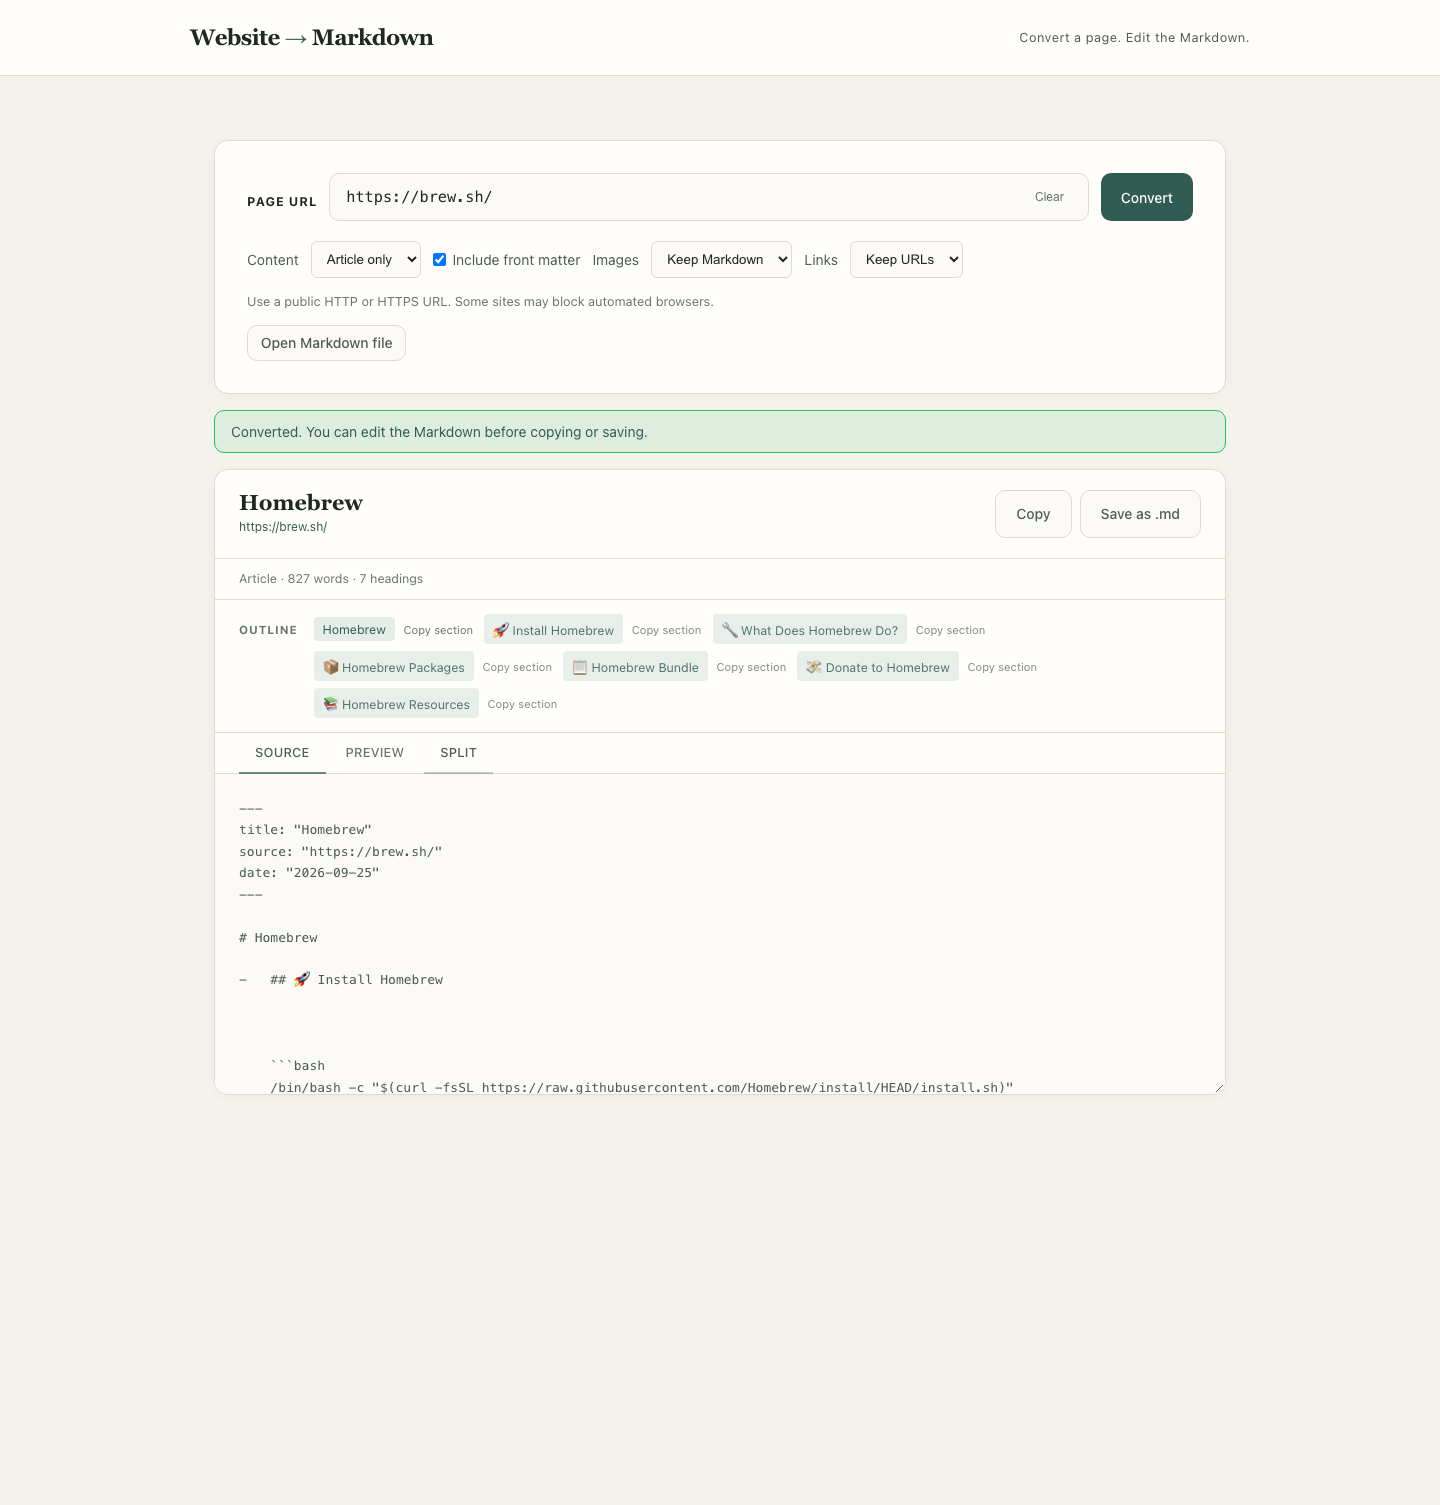
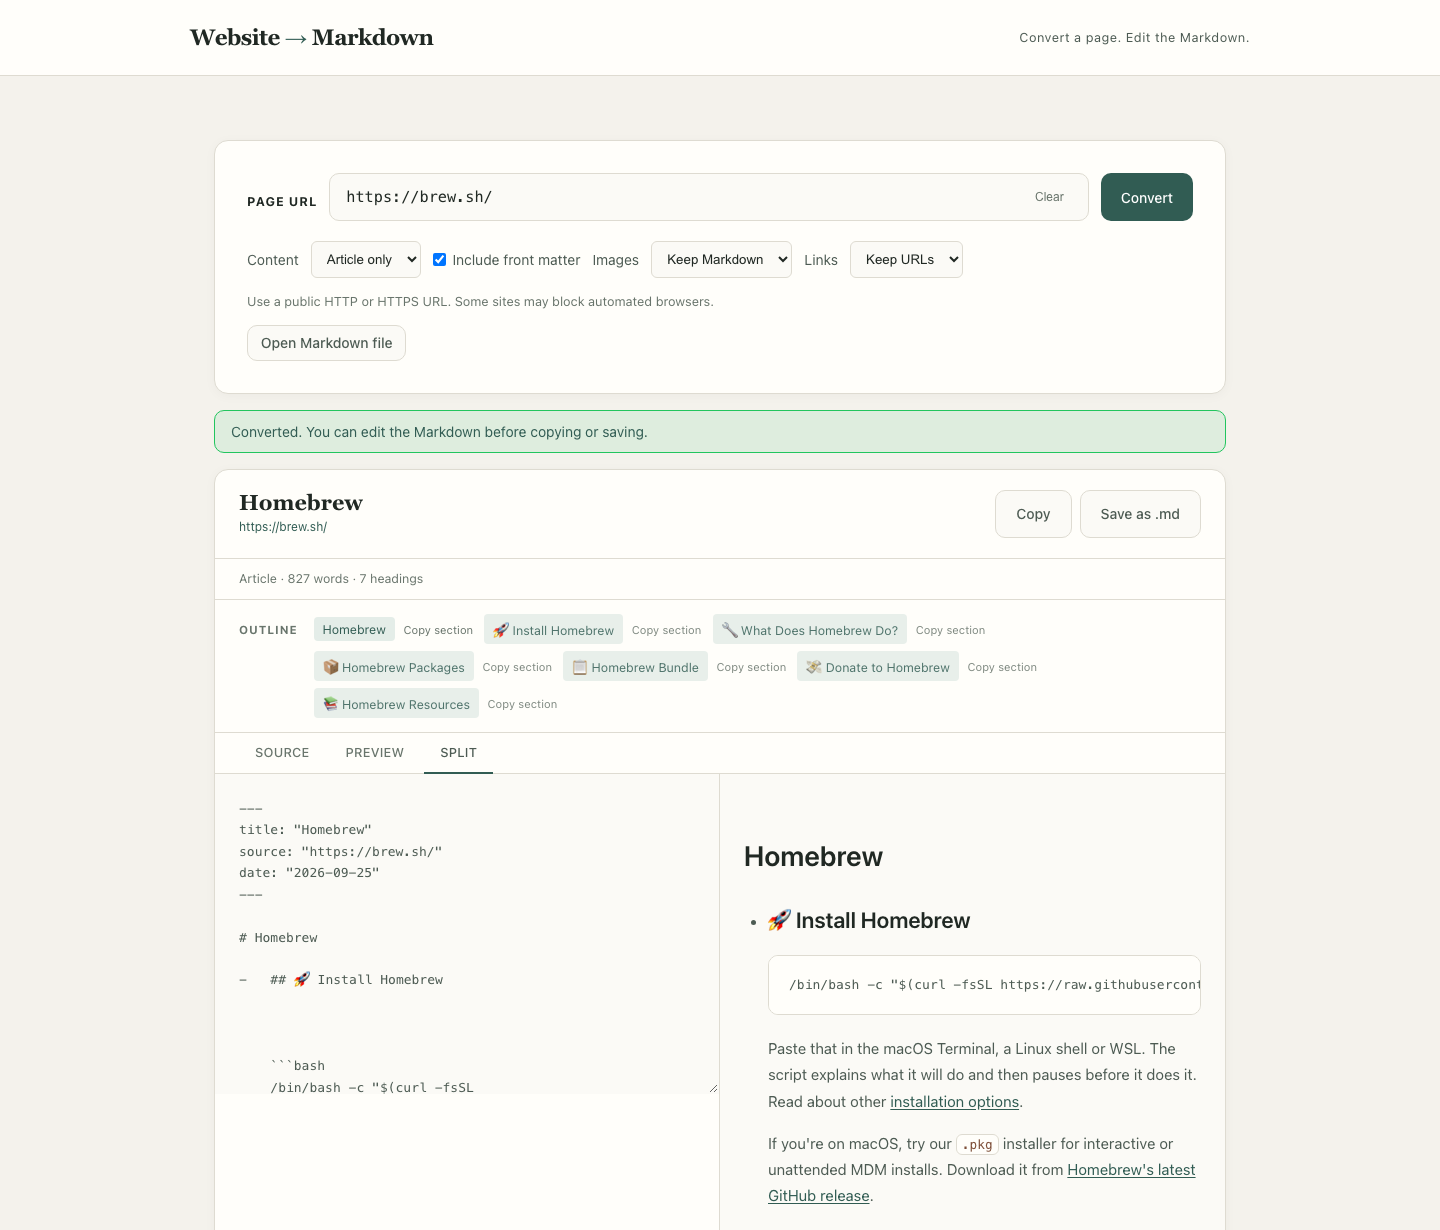
Fix outline actions and Split screenshot for v1.0.1

diff --git a/public/app.js b/public/app.js
@@ -11,6 +11,9 @@ let currentTitle = "output";
 let baseline = "";
 let origin = "";
 let headings = [];
+let headingsSource = "";
+let actionSource = "";
+let actionHeadings = [];
 let activeView = "source";
 let renderTimer;
 let previewSource = null;
@@ -85,6 +88,7 @@ function renderResult() {
   if (activeView !== "source") renderPreviewIfNeeded();
   const stats = analyzeMarkdown(editor.value);
   headings = stats.headings;
+  headingsSource = editor.value;
   $("result-details").textContent =
     `${origin} · ${stats.wordCount} words · ${stats.headingCount} headings`;
   const items = $("outline-items");
@@ -99,20 +103,25 @@ function renderResult() {
     jump.textContent = heading.text;
     jump.setAttribute("aria-label", `Go to ${jump.textContent}`);
     jump.addEventListener("click", () => {
+      const { items, position } = currentHeading(heading, index);
+      const target = items[position];
+      if (!target) return;
       if (activeView === "source") {
         editor.focus();
-        const end = editor.value.indexOf("\n", heading.start);
+        const end = editor.value.indexOf("\n", target.start);
         editor.setSelectionRange(
-          heading.start,
+          target.start,
           end < 0 ? editor.value.length : end,
         );
-      } else
+      } else {
+        renderPreviewIfNeeded();
         $("markdown-preview")
           .querySelectorAll("h1, h2, h3, h4, h5, h6")
-          [index]?.scrollIntoView({
+          [position]?.scrollIntoView({
             behavior: "smooth",
             block: "start",
           });
+      }
     });
     const copy = document.createElement("button");
     copy.type = "button";
@@ -121,8 +130,10 @@ function renderResult() {
     copy.setAttribute("aria-label", `Copy section: ${jump.textContent}`);
     copy.addEventListener("click", async () => {
       try {
+        const { items, position } = currentHeading(heading, index);
+        if (!items[position]) return;
         await navigator.clipboard.writeText(
-          sectionMarkdown(editor.value, headings, index),
+          sectionMarkdown(editor.value, items, position),
         );
         status("success", `Copied section: ${jump.textContent}.`);
       } catch {
@@ -135,6 +146,25 @@ function renderResult() {
     group.append(jump, copy);
     items.append(group);
   });
+}
+function currentHeading(heading, index) {
+  if (headingsSource === editor.value)
+    return { items: headings, position: index };
+  if (actionSource !== editor.value) {
+    actionSource = editor.value;
+    actionHeadings = analyzeMarkdown(editor.value).headings;
+  }
+  const same = (item) =>
+    item.text === heading.text && item.level === heading.level;
+  const occurrence = headings.slice(0, index + 1).filter(same).length;
+  let seen = 0;
+  const match = actionHeadings.findIndex(
+    (item) => same(item) && ++seen === occurrence,
+  );
+  return {
+    items: actionHeadings,
+    position: match < 0 ? index : match,
+  };
 }
 function load(markdown, title, sourceUrl, label) {
   clearTimeout(renderTimer);

diff --git a/test/ui.test.js b/test/ui.test.js
@@ -3,6 +3,66 @@ import assert from "node:assert/strict";
 import { chromium } from "playwright";
 import { createApp } from "../src/server.js";
 
+test("outline actions use current positions before the debounce", async () => {
+  const server = createApp(async () => ({
+    title: "Outline",
+    url: "https://example.com/",
+    extractionMode: "article",
+    warnings: [],
+    markdown: "# First\none\n\n## Target\ntwo\n\n## Next\nthree",
+  })).listen(0, "127.0.0.1");
+  await new Promise((resolve) => server.once("listening", resolve));
+  let browser;
+  try {
+    browser = await chromium.launch();
+    const page = await browser.newPage();
+    await page.addInitScript(() => {
+      Object.defineProperty(navigator, "clipboard", {
+        value: {
+          writeText: async (value) => {
+            window.__copied = value;
+          },
+        },
+      });
+    });
+    await page.goto(`http://127.0.0.1:${server.address().port}/`);
+    await page.locator("#url-input").fill("https://example.com/");
+    await page.locator("#convert-btn").click();
+    await page.locator("#output-card").waitFor({ state: "visible" });
+    await page.evaluate(() => {
+      const editor = document.querySelector("#markdown-output");
+      editor.value = "Before the heading\n\n" + editor.value;
+      editor.dispatchEvent(new Event("input", { bubbles: true }));
+      document.querySelectorAll(".outline-copy")[1].click();
+    });
+    await page.waitForFunction(() => window.__copied !== undefined);
+    assert.equal(await page.evaluate(() => window.__copied), "## Target\ntwo");
+    const selected = await page.evaluate(() => {
+      const editor = document.querySelector("#markdown-output");
+      editor.value = "## Inserted\nnew\n\n" + editor.value;
+      editor.dispatchEvent(new Event("input", { bubbles: true }));
+      document.querySelectorAll(".outline-item")[1].click();
+      return editor.value.slice(editor.selectionStart, editor.selectionEnd);
+    });
+    assert.equal(selected, "## Target");
+    await page.locator("#tab-split").click();
+    const previewTarget = await page.evaluate(() => {
+      const editor = document.querySelector("#markdown-output");
+      editor.value = "## Another\nnew\n\n" + editor.value;
+      editor.dispatchEvent(new Event("input", { bubbles: true }));
+      Element.prototype.scrollIntoView = function () {
+        window.__scrolled = this.textContent;
+      };
+      document.querySelectorAll(".outline-item")[2].click();
+      return window.__scrolled;
+    });
+    assert.equal(previewTarget, "Target");
+  } finally {
+    if (browser) await browser.close();
+    await new Promise((resolve) => server.close(resolve));
+  }
+});
+
 test("clear, options, editing, preview and save controls", async () => {
   const server = createApp(async (_url, options) => ({
     title: "Example title",

diff --git a/scripts/manual-smoke.js b/scripts/manual-smoke.js
@@ -9,7 +9,7 @@ let browser;
 try {
   browser = await chromium.launch();
   const page = await browser.newPage({
-    viewport: { width: 1440, height: 1000 },
+    viewport: { width: 1440, height: 1230 },
     deviceScaleFactor: 1,
   });
   await page.goto(`http://127.0.0.1:${server.address().port}/`);
@@ -50,6 +50,7 @@ try {
     await page.locator("#tab-split").getAttribute("aria-selected"),
     "true",
   );
+  assert.equal(await page.locator("#panel-source").isVisible(), true);
   assert.equal(await page.locator("#panel-preview").isVisible(), true);
   assert.equal(
     await page
@@ -68,8 +69,15 @@ try {
   assert.ok(sourceBox.x + sourceBox.width <= boxes[1].x + 1);
   assert.ok(headingBox.x >= boxes[1].x);
   assert.ok(headingBox.y < sourceBox.y + sourceBox.height);
+  // Capture the desktop image only after Split has rendered both panes.
+  await page.locator("#tab-split").click();
+  assert.equal(
+    await page.locator("#tab-split").getAttribute("aria-selected"),
+    "true",
+  );
+  assert.equal(await page.locator("#panel-preview").isVisible(), true);
   await page.waitForTimeout(250);
-  await page.screenshot({ path: "docs/screenshot.png", fullPage: true });
+  await page.screenshot({ path: "docs/screenshot.png" });
   await page.setViewportSize({ width: 390, height: 844 });
   await page.locator("#tab-preview").click();
   await page.waitForTimeout(250);

diff --git a/docs/release.md b/docs/release.md
@@ -1,28 +1,13 @@
-# v1.0.0 — local release
+# v1.0.1
 
-Web to Markdown converts a public page into editable Markdown with a local web app or CLI. It renders JavaScript pages with Chromium, extracts readable articles where possible, and falls back to the page body when needed.
+This patch fixes Copy section and heading navigation immediately after an edit, before the outline refreshes. It also updates the README desktop screenshot to show the actual Split view.
 
-## Highlights
-
-- Edit, Preview, and Split views with live statistics, outline navigation, and Copy section.
-- Open UTF-8 Markdown files locally, copy edits, and save `.md` files.
-- CLI output to stdout or a new file, with front matter, image, and link options.
-- Bounded public URL fetching, sanitized Preview, and Chromium fixture and UI checks.
-
-## Run locally
-
-Requires Node.js 22.13+, 24, or 26.
+Run locally with Node.js 22.13+, 24, or 26:
 
 ```sh
-git clone https://github.com/DenGian/web-to-markdown.git
-cd web-to-markdown
 npm ci
 npm run install:browser
 npm start
 ```
 
-Open <http://localhost:3000>, or run `node src/cli.js https://brew.sh/ --output homebrew.md`.
-
-## Limitations
-
-One public page is converted at a time. Article extraction is heuristic; body fallback can include navigation and lists can nest headings. Late content, blocked resources, site restrictions, and conversion limits can affect the result. Preview represents remote images as placeholders. No hosted app or API is provided.
+The app remains local only. See the [README](../README.md) for setup and usage.

diff --git a/CHANGELOG.md b/CHANGELOG.md
@@ -1,5 +1,10 @@
 # Changelog
 
+## 1.0.1 — 2026-09-25
+
+- Use current editor positions for Copy section and heading navigation immediately after edits.
+- Refresh the desktop screenshot to show the Split view described in the README.
+
 ## 1.0.0 — 2026-09-25
 
 - Convert public pages to Markdown through a local web app or CLI, with Readability article extraction and body fallback.
